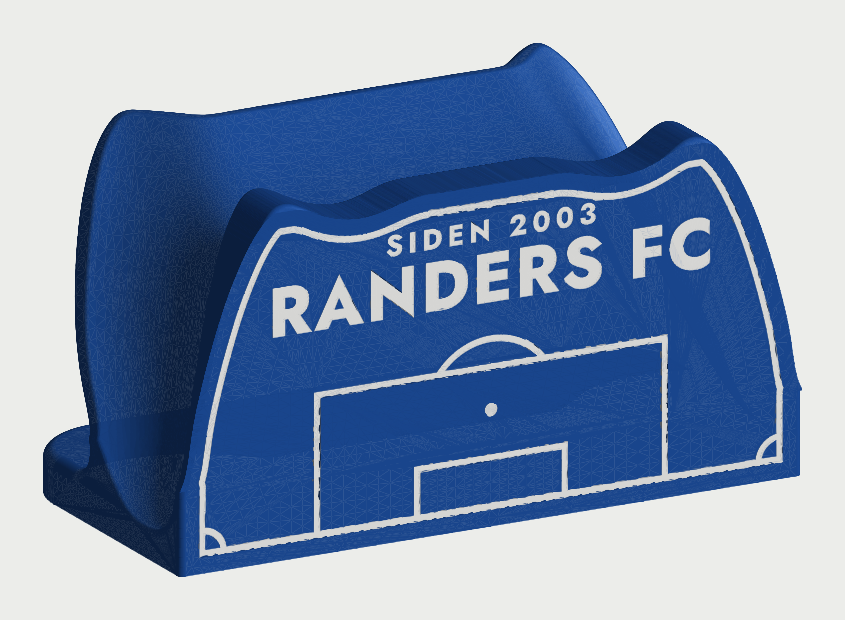
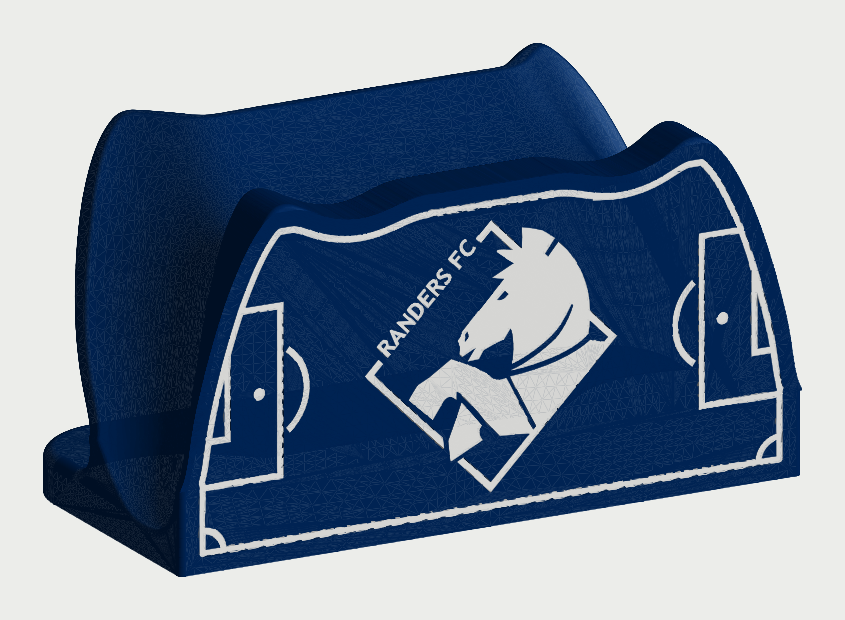
Randers FC controllerstander: klublogoet og tre nye forslag

diff --git a/RandersFC_PS5_ControllerStand/index.html b/RandersFC_PS5_ControllerStand/index.html
@@ -15,7 +15,7 @@ body { margin: 0 }
   --fg: #15203A;
   --muted: #56617A;
   --line: #C8D0DE;
-  --blue: #1D4FA0;
+  --blue: #00285F;
   --display: "Archivo", "Arial Narrow", system-ui, sans-serif;
   --ui: "Instrument Sans", system-ui, sans-serif;
   --mono: "IBM Plex Mono", ui-monospace, monospace;
@@ -65,11 +65,11 @@ dd { margin: 0; }
 <body>
 <div class="wrap">
   <header>
-    <div class="eyebrow">PS5-controllerstander · 118 × 60 × 63 mm · blå, hvid og sort</div>
+    <div class="eyebrow">PS5-controllerstander · 118 × 60 × 63 mm · mørkeblå, hvid og sort</div>
     <h1>Randers FC <em>på hylden</em></h1>
-    <p>En stander til en DualSense-controller med fodbold og Randers FC på forsiden. Standeren er et remix af OctaNiks PS5 Controller Stand. Forsiden er gjort plan, så standeren kan printes liggende med motivet ned mod pladen. Så bliver motivet skarpt og glat, og farverne skifter kun i de første tre lag.</p>
+    <p>En stander til en DualSense-controller med Randers FC's logo på forsiden. Standeren er et remix af OctaNiks PS5 Controller Stand. Forsiden er gjort plan, så standeren kan printes liggende med motivet ned mod pladen. Så bliver logoet skarpt, og farverne skifter kun i de første tre lag.</p>
     <div class="swatches" aria-label="Farver">
-      <span><i style="background: #1D4FA0"></i>Blå (krop)</span>
+      <span><i style="background: #00285F"></i>Mørkeblå (krop, klubbens blå)</span>
       <span><i style="background: #F4F4F2"></i>Hvid</span>
       <span><i style="background: #161616"></i>Sort (kun Bold)</span>
     </div>
@@ -77,41 +77,41 @@ dd { margin: 0; }
 
   <section class="grid">
     <article>
-      <img class="render" src="RandersFC_PS5_ControllerStand_bane.png" alt="Blå controllerstander med hvide kridtstreger: straffesparksfelt, målfelt, bue og RANDERS FC, SIDEN 2003">
-      <img class="front" src="RandersFC_PS5_ControllerStand_bane_forside.png" alt="Forsiden set lige forfra med banen">
+      <img class="render" src="RandersFC_PS5_ControllerStand_logo.png" alt="Mørkeblå controllerstander med Randers FC's hvide logo, hesten i ruderammen, stort midt på forsiden">
+      <img class="front" src="RandersFC_PS5_ControllerStand_logo_forside.png" alt="Forsiden set lige forfra med logoet">
+      <div class="caption">Forsiden set lige forfra</div>
+      <h2>Logo <span class="tag">2 farver</span></h2>
+      <p>Klublogoet med hesten i ruderammen og RANDERS FC i buen, så stort som forsiden tillader. Ellers er der ikke noget. Det er det enkleste af forslagene, og her står logoet skarpest.</p>
+      <dl>
+        <dt>Udtryk</dt><dd>Rent og officielt</dd>
+        <dt>Mest</dt><dd>Mørkeblå, med et hvidt logo</dd>
+        <dt>Print</dt><dd>Logoet er 55 mm højt</dd>
+      </dl>
+    </article>
+
+    <article>
+      <img class="render" src="RandersFC_PS5_ControllerStand_bane.png" alt="Mørkeblå controllerstander med hvide kridtstreger: en bane på tværs med logoet i midten og et straffesparksfelt i hver side">
+      <img class="front" src="RandersFC_PS5_ControllerStand_bane_forside.png" alt="Forsiden set lige forfra med banen og logoet">
       <div class="caption">Forsiden set lige forfra</div>
       <h2>Bane <span class="tag">2 farver</span></h2>
-      <p>Forsiden er en fodboldbane set fra målet. Kridtstregerne følger standerens kant, og straffesparksfeltet, målfeltet, buen og hjørnerne sidder nederst. Over feltet står RANDERS FC og SIDEN 2003.</p>
+      <p>Hele forsiden er en bane set fra oven. Logoet sidder på midten, hvor der sparkes i gang, og der er et straffesparksfelt med målfelt, plet og bue i hver side. Kridtstregerne følger standerens kant.</p>
       <dl>
-        <dt>Udtryk</dt><dd>Stadion, rent og grafisk</dd>
-        <dt>Mest</dt><dd>Blå, med tynde hvide streger</dd>
-        <dt>Print</dt><dd>Stregerne er 1,2 mm brede (3 baner)</dd>
+        <dt>Udtryk</dt><dd>Stadion, grafisk</dd>
+        <dt>Mest</dt><dd>Mørkeblå, med tynde hvide streger</dd>
+        <dt>Print</dt><dd>Logoet er 48 mm. Stregerne er 1,2 mm brede</dd>
       </dl>
     </article>
 
     <article>
-      <img class="render" src="RandersFC_PS5_ControllerStand_bold.png" alt="Blå controllerstander med en stor sort og hvid fodbold over teksten RANDERS FC">
-      <img class="front" src="RandersFC_PS5_ControllerStand_bold_forside.png" alt="Forsiden set lige forfra med bolden">
+      <img class="render" src="RandersFC_PS5_ControllerStand_bold.png" alt="Mørkeblå controllerstander med Randers FC-logoet til venstre og en sort og hvid fodbold til højre">
+      <img class="front" src="RandersFC_PS5_ControllerStand_bold_forside.png" alt="Forsiden set lige forfra med logo og bold">
       <div class="caption">Forsiden set lige forfra</div>
       <h2>Bold <span class="tag">3 farver</span></h2>
-      <p>En klassisk fodbold med sorte femkanter og hvide sekskanter, Ø 37 mm, midt på forsiden. Under den står RANDERS FC med store hvide bogstaver.</p>
+      <p>Logoet til venstre og en klassisk fodbold med sorte femkanter og hvide sekskanter (Ø 38 mm) til højre.</p>
       <dl>
-        <dt>Udtryk</dt><dd>Kraftigt og legende</dd>
-        <dt>Mest</dt><dd>Blå, med en sort og hvid bold</dd>
-        <dt>Print</dt><dd>Sømmene er 0,8 mm. Kræver tre farver i AMS</dd>
-      </dl>
-    </article>
-
-    <article>
-      <img class="render" src="RandersFC_PS5_ControllerStand_troeje.png" alt="Blå controllerstander med en hvid spillertrøje med RANDERS og nummer 10">
-      <img class="front" src="RandersFC_PS5_ControllerStand_troeje_forside.png" alt="Forsiden set lige forfra med trøjen">
-      <div class="caption">Forsiden set lige forfra</div>
-      <h2>Trøje <span class="tag">2 farver</span></h2>
-      <p>En hvid spillertrøje med V-hals og striber på ærmer og kant. RANDERS og nummer 10 står i blåt, fordi standerens blå farve ses igennem. Nummeret kan skiftes, fx til ejerens yndlingsspiller.</p>
-      <dl>
-        <dt>Udtryk</dt><dd>Personligt, som en fantrøje</dd>
-        <dt>Mest</dt><dd>Blå, med en stor hvid flade</dd>
-        <dt>Print</dt><dd>Nummeret er ca. 18 mm højt</dd>
+        <dt>Udtryk</dt><dd>Legende, med lidt mere fodbold</dd>
+        <dt>Mest</dt><dd>Mørkeblå, med hvidt og sort</dd>
+        <dt>Print</dt><dd>Logoet er 53 mm. Kræver tre farver i AMS</dd>
       </dl>
     </article>
   </section>
@@ -121,9 +121,9 @@ dd { margin: 0; }
     <ul>
       <li><b>Mål:</b> 118 × 60 × 63 mm som originalen. Rillen, controlleren står i, er uændret. Kun den buede øverste del af forsiden er fyldt ud, så den er plan.</li>
       <li><b>Print:</b> liggende på forsiden uden support, ca. 9 timer og ca. 78 g PLA. Motivet ligger i de første 3 lag (0,6 mm), så der er kun 2-5 farveskift.</li>
-      <li><b>Kan blandes:</b> fx Banens kridtstreger med Boldens fodbold i midtercirklen, eller trøjen med et navn i stedet for RANDERS.</li>
-      <li><b>Logo:</b> forslagene bruger klubbens navn og farver, men ikke det officielle klublogo.</li>
-      <li><b>Original:</b> <a href="https://makerworld.com/models/867623">PS5 Controller Stand</a> af OctaNik på MakerWorld, licens <a href="https://creativecommons.org/licenses/by-nc-sa/4.0/">CC BY-NC-SA 4.0</a>. Remixet har samme licens.</li>
+      <li><b>Logoet:</b> er hentet som vektor fra randersfc.dk. Bogstaverne i buen er meget tynde. Hvor logoet er under 55 mm, er de gjort en anelse federe, så de er mindst 0,46 mm og kan printes med en 0,4 mm dyse.</li>
+      <li><b>Kan blandes:</b> fx Banens kridtstreger omkring det store logo fra Logo.</li>
+      <li><b>Original:</b> <a href="https://makerworld.com/models/867623">PS5 Controller Stand</a> af OctaNik på MakerWorld, licens <a href="https://creativecommons.org/licenses/by-nc-sa/4.0/">CC BY-NC-SA 4.0</a>. Logoet tilhører Randers FC og er kun til personligt brug.</li>
     </ul>
   </section>
 </div>

diff --git a/index.html b/index.html
@@ -46,7 +46,7 @@ a.card p { margin: 2px 0 0; color: var(--muted); }
     </a></li>
     <li><a class="card" href="RandersFC_PS5_ControllerStand/">
       <img src="RandersFC_PS5_ControllerStand/RandersFC_PS5_ControllerStand_ikon.png" alt="">
-      <div><h2>Randers FC controllerstander</h2><p>Tre forslag til en 3D-printet stander til en PS5-controller med fodbold og Randers FC på forsiden.</p></div>
+      <div><h2>Randers FC controllerstander</h2><p>Tre forslag til en 3D-printet stander til en PS5-controller med Randers FC's logo på forsiden.</p></div>
     </a></li>
   </ul>
 </div>

diff --git a/README.md b/README.md
@@ -18,4 +18,4 @@ Hvert projekt har sin egen mappe med en `index.html`, fx `mindre/` → https://t
 | [`halstiern/`](halstiern/) | Designforslag til ølbrikker til Halstiern Bryghus |
 | [`tryllestav/`](tryllestav/) | Designforslag til en tryllestav i sort, brun og mos |
 | [`HSK_SpillerMagnet/`](HSK_SpillerMagnet/) | Spillermagnet formet som en HSK-trøje med hest og navn |
-| [`RandersFC_PS5_ControllerStand/`](RandersFC_PS5_ControllerStand/) | Designforslag til en PS5-controllerstander med Randers FC-tema |
+| [`RandersFC_PS5_ControllerStand/`](RandersFC_PS5_ControllerStand/) | Designforslag til en PS5-controllerstander med Randers FC-logo |
